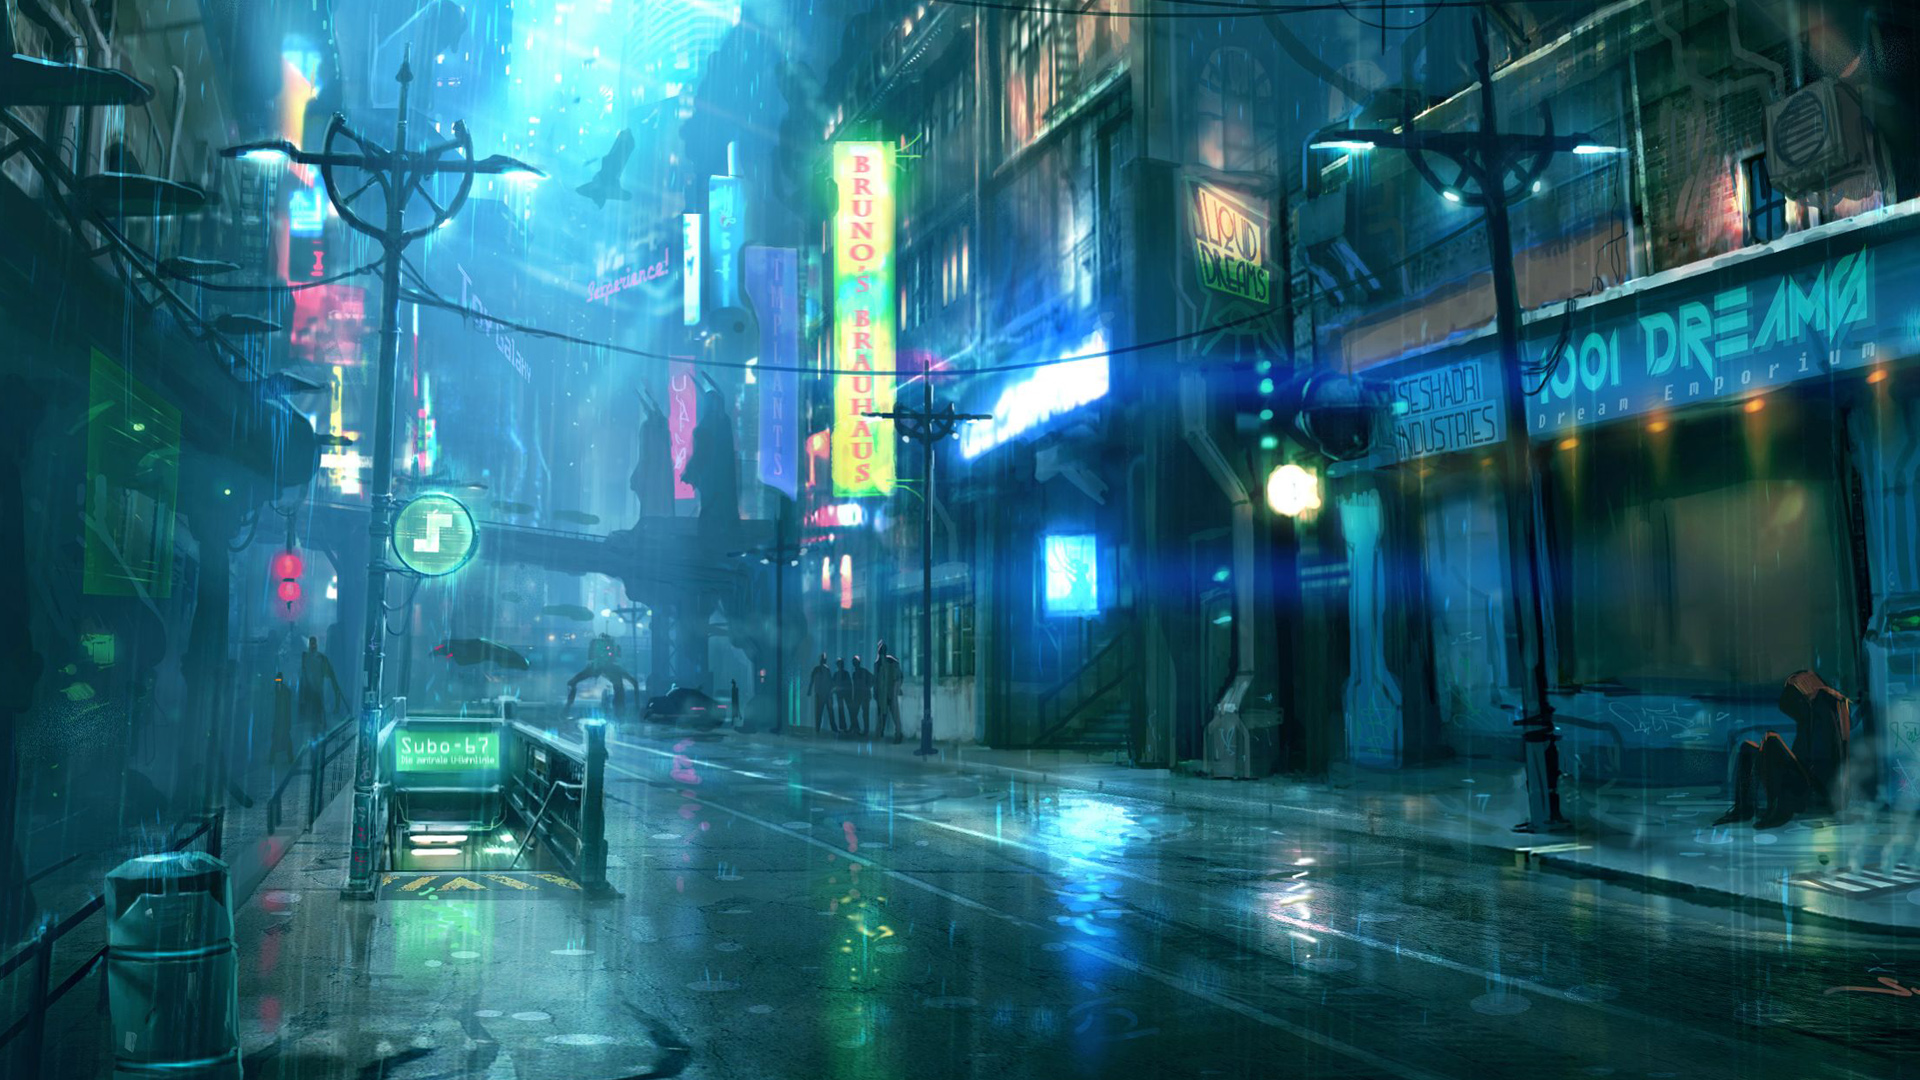
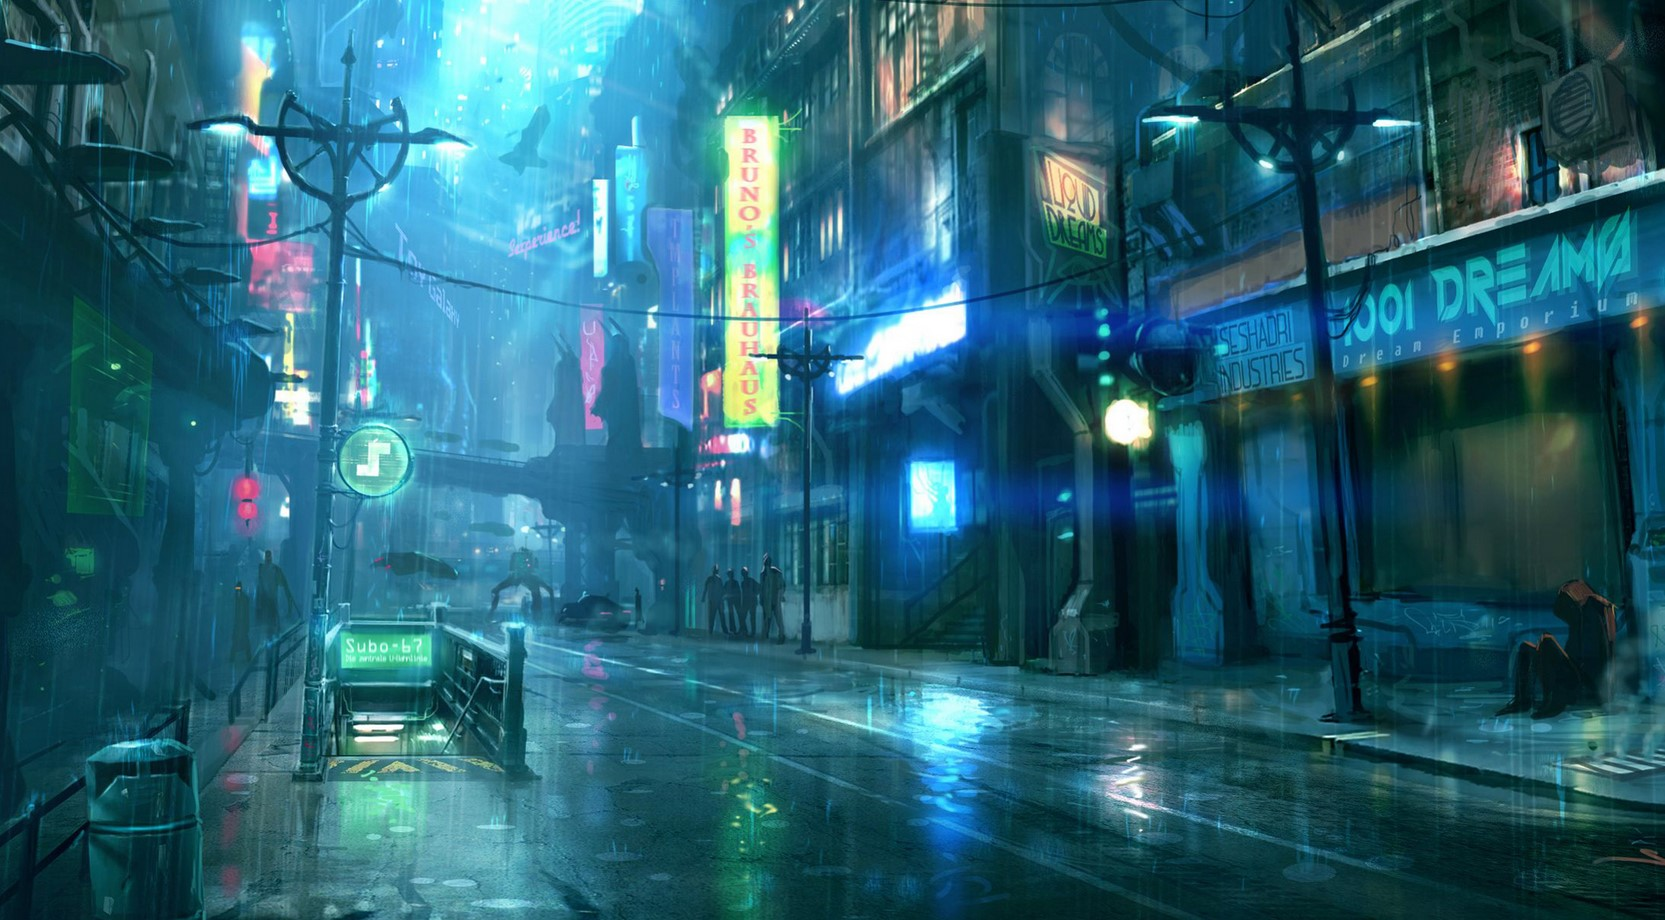
Modify some colour values

diff --git a/index.html b/index.html
@@ -10,13 +10,13 @@
   <section id="leftInfo">
     
   </section>
-  <nav>
+  <!-- <nav>
     <div>
       <a href="#projects">Projects</a>
       <a href="#skills">Skills</a>
       <a href="#future">Future</a>
     </div>
-  </nav>
+  </nav> -->
   <section id="left">
     <section id="profile">
       <section id="profileDesc">
@@ -188,9 +188,6 @@
             <path fill="#0080ff" d="M64.1424 102.9593H39.2391V78.5231h24.9033ZM39.2391 122.132H20.3732v-19.1726h18.866Zm-18.8659-19.1726H4.5301v-15.792h15.8431Zm43.3934 24.8132v-24.8132c26.4107 0 46.784-25.9396 36.5973-53.3885-3.7744-10.1506-11.694-18.419-22.2605-22.1813-27.1663-9.7717-53.2 10.5274-53.2 36.468H0C0 22.5037 40.3707-10.206 84.5197 3.3281c19.2427 6.0173 34.3342 21.0547 40.3706 40.2293 13.5812 43.9857-19.2457 84.215-61.1237 84.215Zm0 0"></path>
           </svg> 
       </div>
-    </section>
-    <section id="future">
-      <p>Some filler text</p>
     </section>
   </main>
 </body>

diff --git a/style.css b/style.css
@@ -27,7 +27,7 @@ body::before {
     background-size: cover;
     background-position: center;
     background-attachment: fixed;
-    filter: blur(3px);
+    filter: blur(0px);
     z-index: -1;
 }
 
@@ -138,12 +138,12 @@ main section {
 }
 
 .project-container {
-    background-color: #946846;
+    background-color: #47372b;
     border-radius: 15px;
     box-shadow: 0 4px 6px rgba(0, 0, 0, 0.3);
     margin: 1em;
     padding: 1em;
-    color: white;
+    color: rgb(223, 221, 221);
 }
 
 .project-content {
